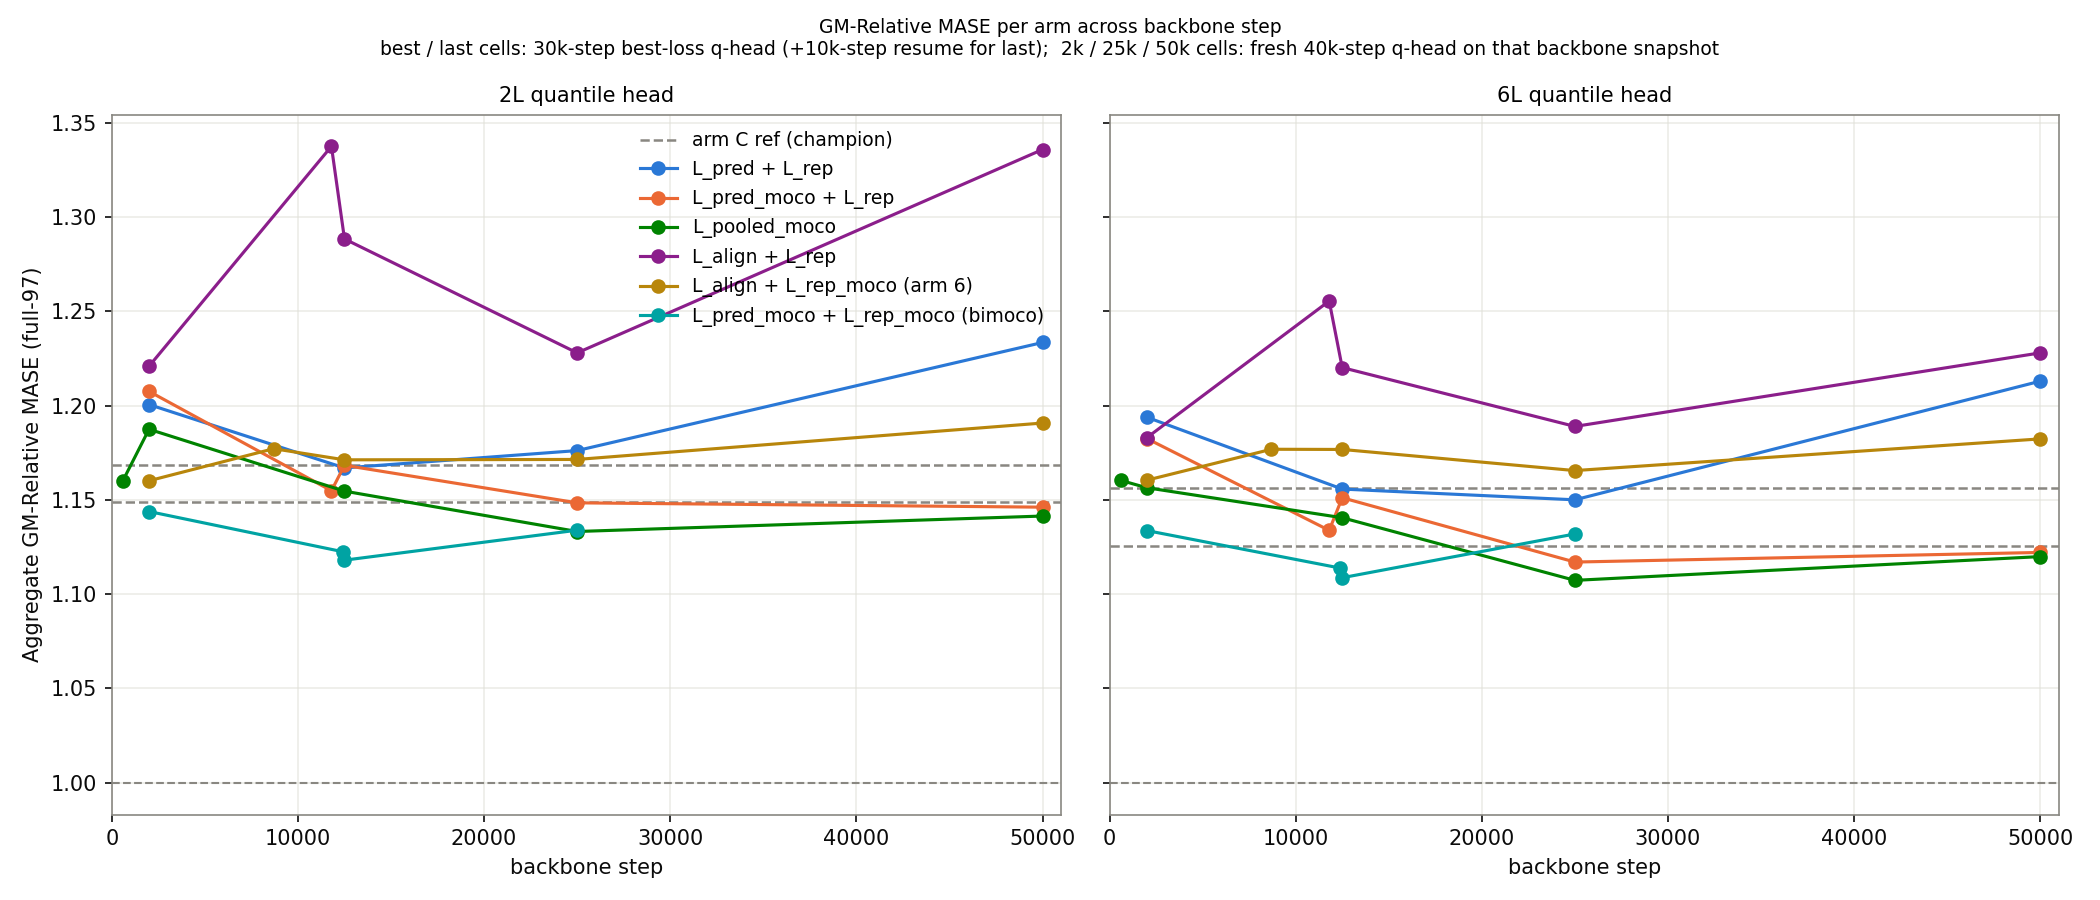
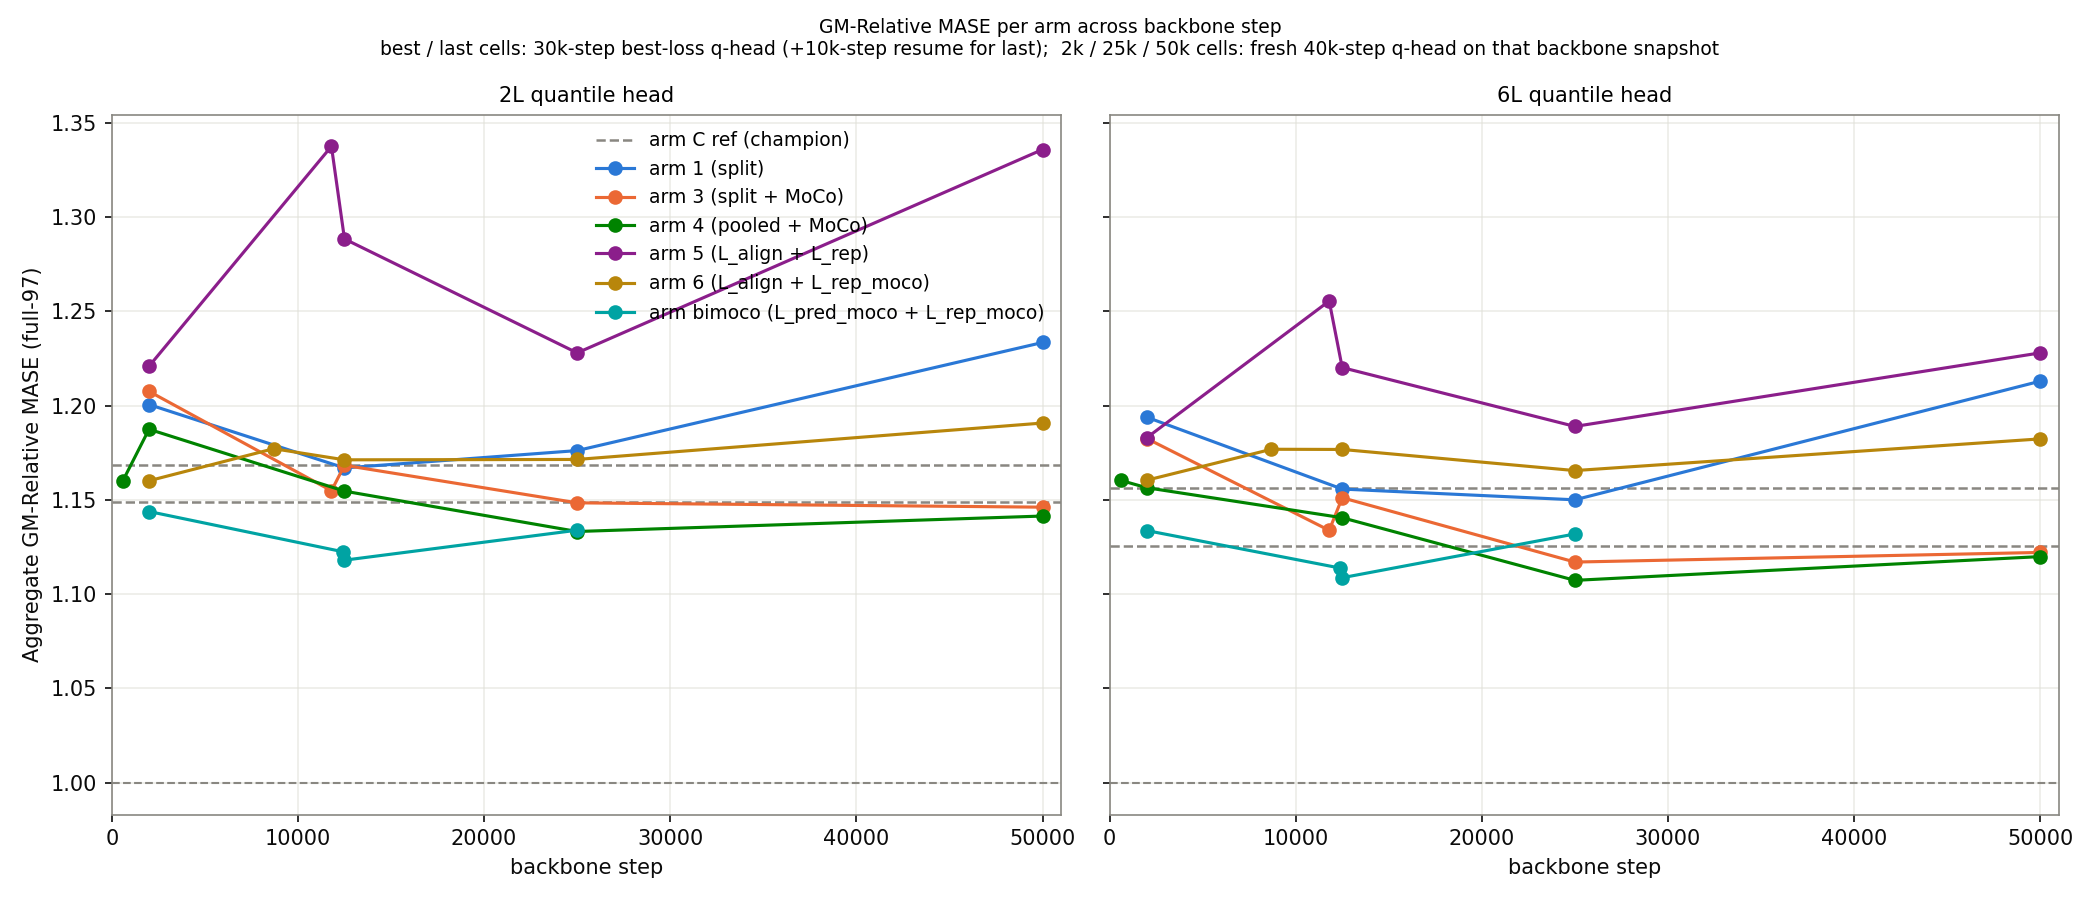
report(#374): apply reviewer edits — standalone verdict, adjacent arm-C caveat, matched arm labels, drop duplicated numbers/glosses

Changed region(s): [[0.2786, 0.1244, 0.4952, 0.3733]]

diff --git a/reports/2026-07-10_split_pred_rep/plots/_make_gm_curves.py b/reports/2026-07-10_split_pred_rep/plots/_make_gm_curves.py
@@ -30,12 +30,12 @@ plt.rcParams.update({
 
 # (label, results-dir, base name, best_step, colour).
 ARMS = [
-    ("L_pred + L_rep",                    "results",           "gift_eval_full_split_pred_rep_xftrip_nobn_enc3_emateach_sigreg_qk_aon_b512_cpc_tau090",           12500, C_ARM1),
-    ("L_pred_moco + L_rep",               "results",           "gift_eval_full_split_pred_rep_moco_xftrip_nobn_enc3_emateach_sigreg_qk_aon_b512_cpc_tau090",      11800, C_ARM3),
-    ("L_pooled_moco",                     "results_arm4",      "gift_eval_full_allt08_moco_xftrip_nobn_enc3_emateach_sigreg_qk_aon_b512_cpc_arm4_tau090",           600, C_ARM4),
-    ("L_align + L_rep",                   "results_arm5",      "gift_eval_full_lalign_xftrip_nobn_enc3_emateach_sigreg_qk_aon_b512_cpc_arm5_tau090",             11800, C_ARM5),
-    ("L_align + L_rep_moco (arm 6)",      "results_arm6_v2",   "gift_eval_full_lalign_lrepmoco_xftrip_nobn_enc3_emateach_sigreg_qk_aon_b512_cpc_arm6v2_tau090",   8700, C_ARM6),
-    ("L_pred_moco + L_rep_moco (bimoco)", "results_bimoco_v2", "gift_eval_full_split_pred_rep_bimoco_v2_xftrip_nobn_enc3_emateach_sigreg_qk_aon_b512_cpc_tau090", 12400, C_BIMOCO),
+    ("arm 1 (split)",                  "results",           "gift_eval_full_split_pred_rep_xftrip_nobn_enc3_emateach_sigreg_qk_aon_b512_cpc_tau090",           12500, C_ARM1),
+    ("arm 3 (split + MoCo)",           "results",           "gift_eval_full_split_pred_rep_moco_xftrip_nobn_enc3_emateach_sigreg_qk_aon_b512_cpc_tau090",      11800, C_ARM3),
+    ("arm 4 (pooled + MoCo)",          "results_arm4",      "gift_eval_full_allt08_moco_xftrip_nobn_enc3_emateach_sigreg_qk_aon_b512_cpc_arm4_tau090",           600, C_ARM4),
+    ("arm 5 (L_align + L_rep)",        "results_arm5",      "gift_eval_full_lalign_xftrip_nobn_enc3_emateach_sigreg_qk_aon_b512_cpc_arm5_tau090",             11800, C_ARM5),
+    ("arm 6 (L_align + L_rep_moco)",   "results_arm6_v2",   "gift_eval_full_lalign_lrepmoco_xftrip_nobn_enc3_emateach_sigreg_qk_aon_b512_cpc_arm6v2_tau090",   8700, C_ARM6),
+    ("arm bimoco (L_pred_moco + L_rep_moco)", "results_bimoco_v2", "gift_eval_full_split_pred_rep_bimoco_v2_xftrip_nobn_enc3_emateach_sigreg_qk_aon_b512_cpc_tau090", 12400, C_BIMOCO),
 ]
 
 

diff --git a/reports/2026-07-10_split_pred_rep/split_pred_rep.md b/reports/2026-07-10_split_pred_rep/split_pred_rep.md
@@ -1,8 +1,8 @@
 # Split L_pred + L_rep contrastive loss — arm sweep on the SIGReg-champion backbone
 
-**Question.** The champion loss merges five negative tensors under one pooled log-sum-exp denominator. Does splitting it into `L_pred` (f-anchored: `f` = forecast latent, scored positive against the next-step representation latent `h`) and `L_rep` (h-anchored, log-sum-exp only) improve GM-Relative MASE (geometric-mean forecast error relative to seasonal-naive; defined in annex) on the GIFT-Eval 97-config panel, and does adding EMA-teacher MoCo keys (momentum-contrast: keys from an EMA teacher) or replacing `L_pred` with BYOL alignment (negative-free predictor-to-teacher matching) change the answer?
+**Question.** The champion loss merges five negative tensors under one pooled log-sum-exp denominator. Does splitting it into `L_pred` (f-anchored) and `L_rep` (h-anchored) improve GM-Relative MASE on the GIFT-Eval 97-config panel, and does adding EMA-teacher MoCo keys or replacing `L_pred` with BYOL alignment change the answer? (terms defined in annex)
 
-**Answer.** No arm is established as beating the champion: only point estimates exist against arm C (no per-task file → no CI), bimoco's estimates are lower in all four cells but the narrowest gap is 0.0167 (6L / last: 1.1254 → 1.1087). Among the six sibling arms, `L_pred_moco + L_rep_moco` (bimoco) has the lowest GM-Relative MASE at all four 12,500-step (head, checkpoint) cells — 1.1225 / 1.1180 / 1.1138 / 1.1087 — and is 95 %-separated from arms 1, 3, 4, 5, 6 in every cell (paired task-bootstrap, below). The lead does not hold past 12,500 steps: arm 4 (pooled + MoCo) matches or beats bimoco at 25k (arm 4 6L 25k = 1.1073 vs bimoco 1.1319). Single seed (20260520).
+**Answer.** No arm is established as beating the SIGReg-champion. Only point estimates exist against arm C (no per-task file → no CI). bimoco's estimates are lower than arm C in all four cells, but the narrowest gap is 0.0167 (6L / last: 1.1254 → 1.1087) — 1.1254 is the arm-C point estimate, an external file with no per-task CI, so the 0.0167 gap is a point-estimate difference only. Among the six sibling arms, `L_pred_moco + L_rep_moco` (bimoco) has the lowest GM-Relative MASE at all four 12,500-step (head, checkpoint) cells — 1.1225 / 1.1180 / 1.1138 / 1.1087 — and is 95 %-separated from arms 1, 3, 4, 5, 6 in every cell (paired task-bootstrap, below). The lead does not hold past 12,500 steps: arm 4 (pooled + MoCo) matches or beats bimoco at 25k. Single seed (20260520).
 
 ## Result
 
@@ -47,7 +47,7 @@ Within the arm-1/3/4-vs-bimoco family, 10 of the 12 rows also clear the Bonferro
 
 ## Denominator share
 
-In the pooled shape the prediction family (`log_neg_cross_batch`) holds 0.003 of the denominator on both the mixed and periodic batch; the split gives the prediction pairs their own denominator (0.901 mixed / 0.991 periodic). Arm 4 stands in for arm C, per the arm-C note above.
+Splitting gives the prediction pairs a near-full denominator; pooling collapses their share to 0.003 (both batches). Arm 4 stands in for arm C, per the arm-C note above.
 
 ![Per-family denominator share at each arm's FINAL.pth backbone snapshot (arm 1: step 12,500; arm 3: step 11,800; arm 4: step 600), on a mixed batch and a periodic-only batch (solar/electricity windows), τ = 0.10, probe B = 64.](plots/gradient_share_stack.png)
 
